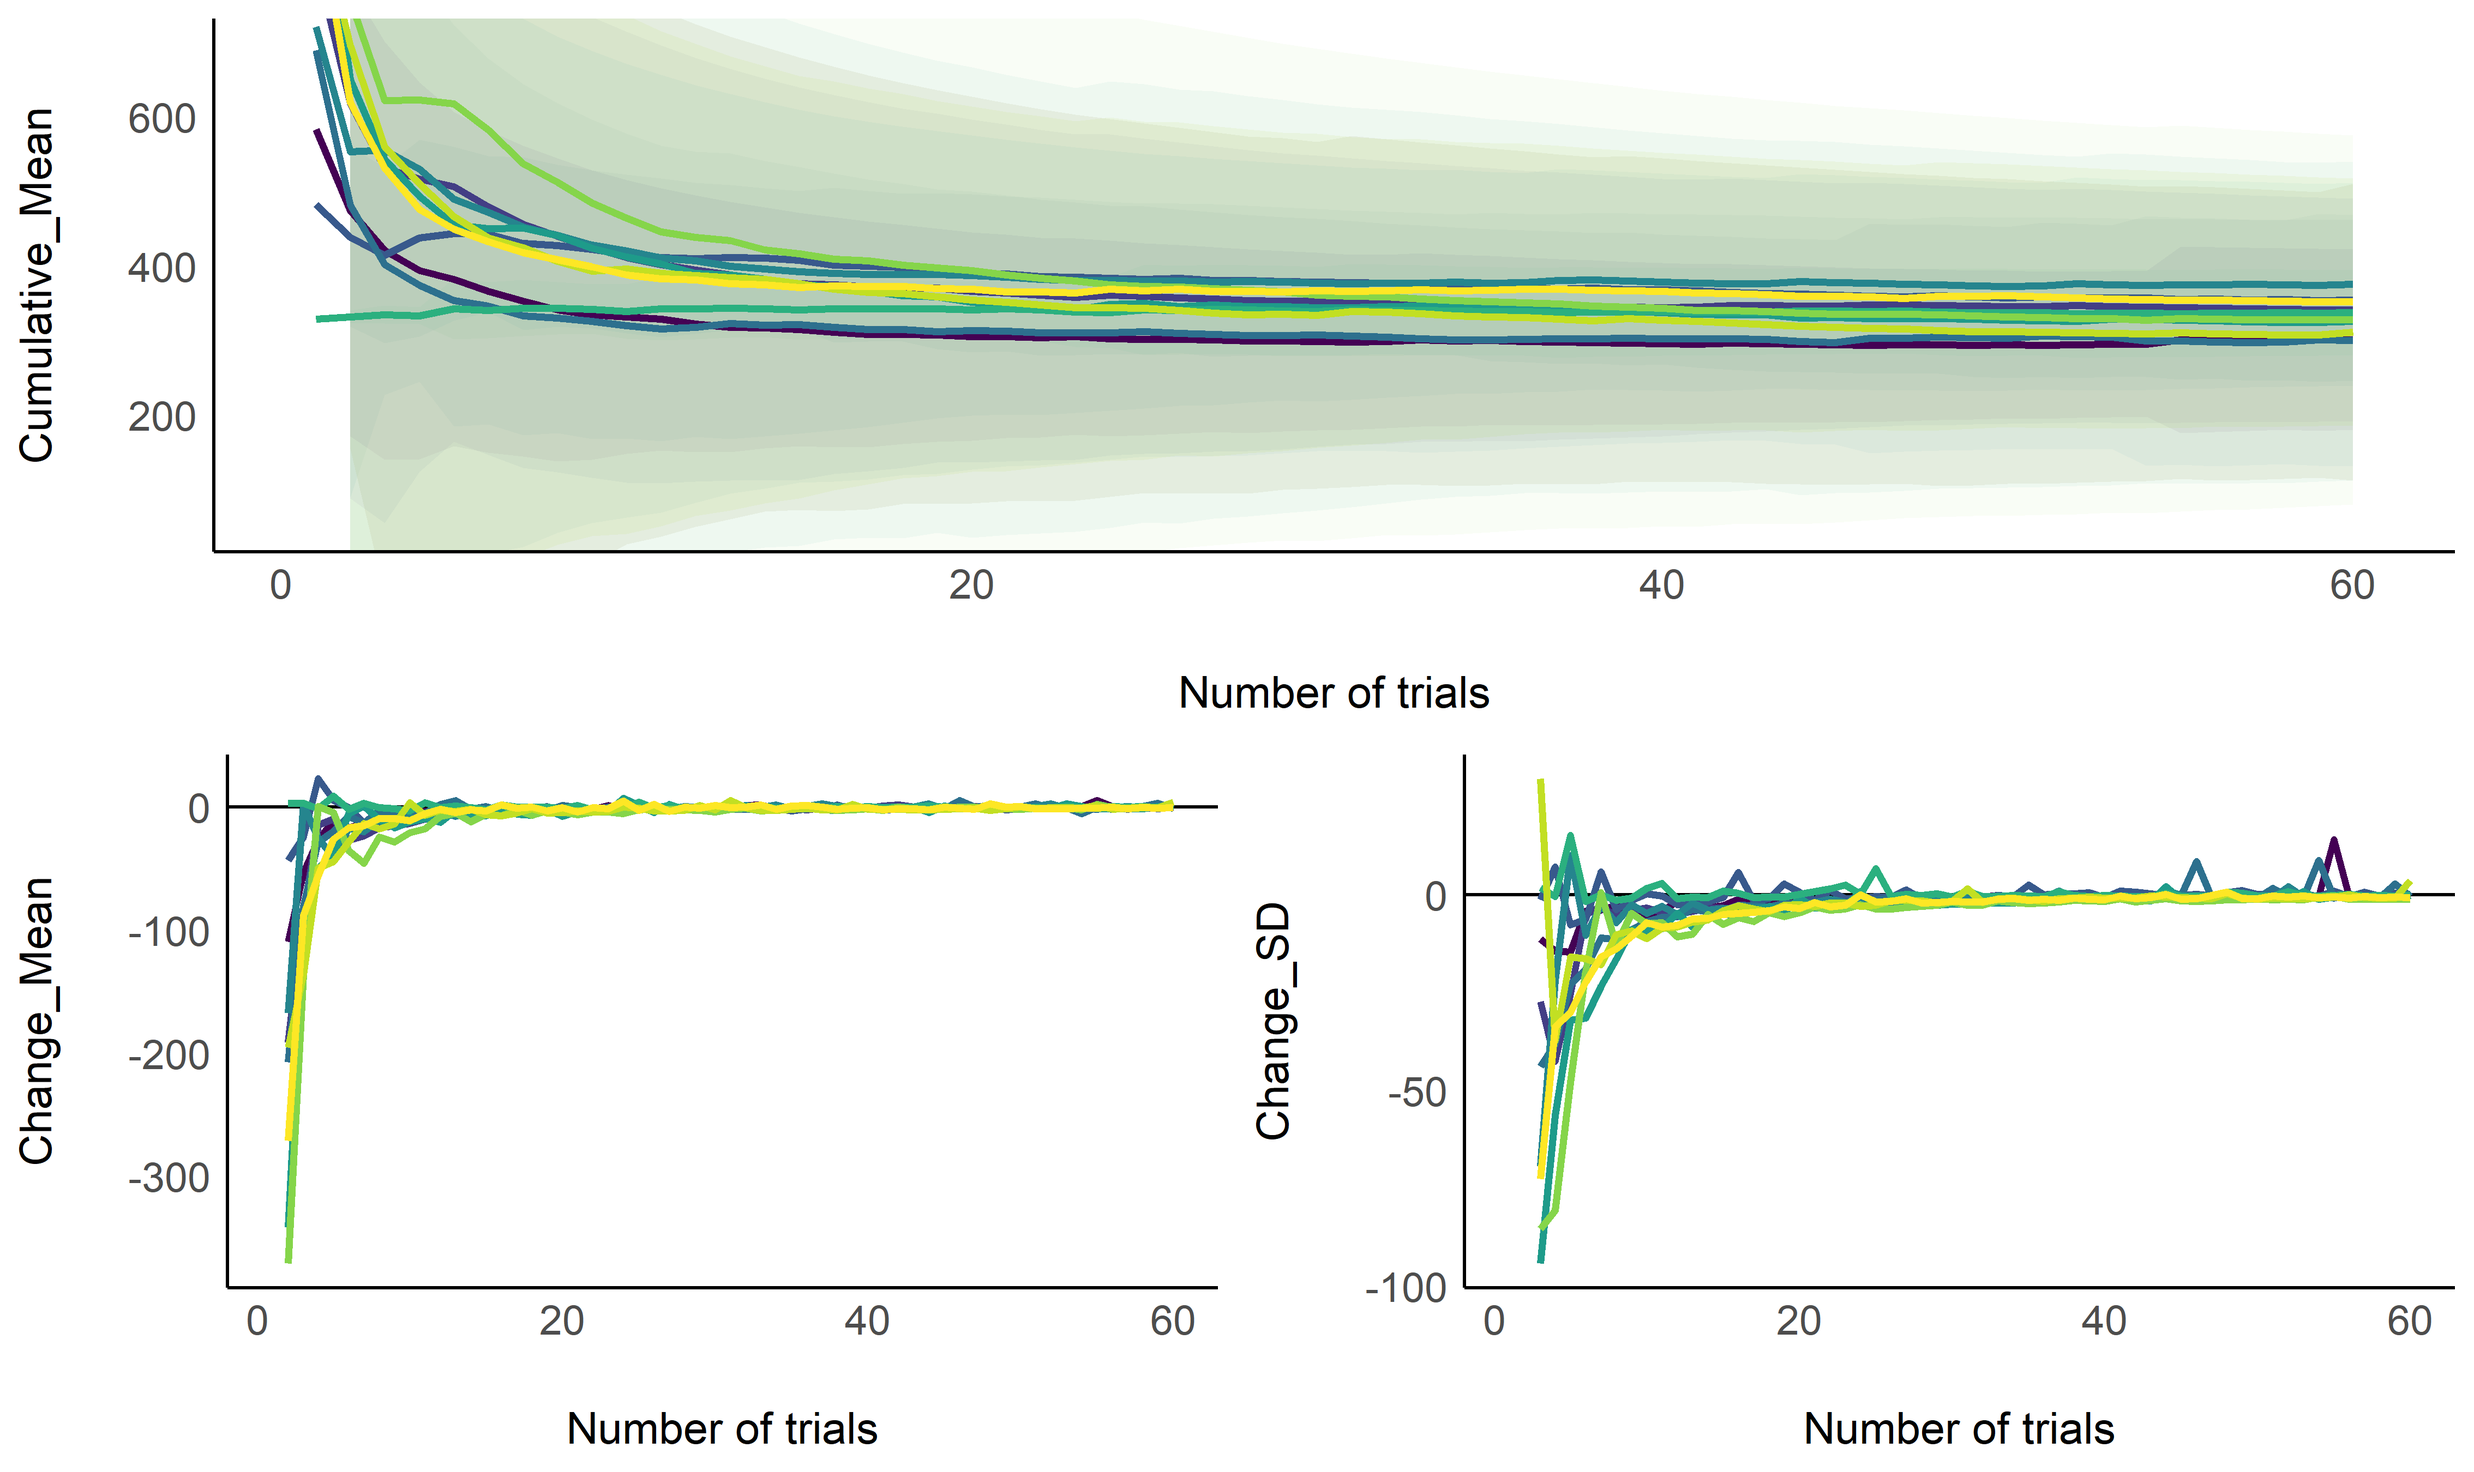
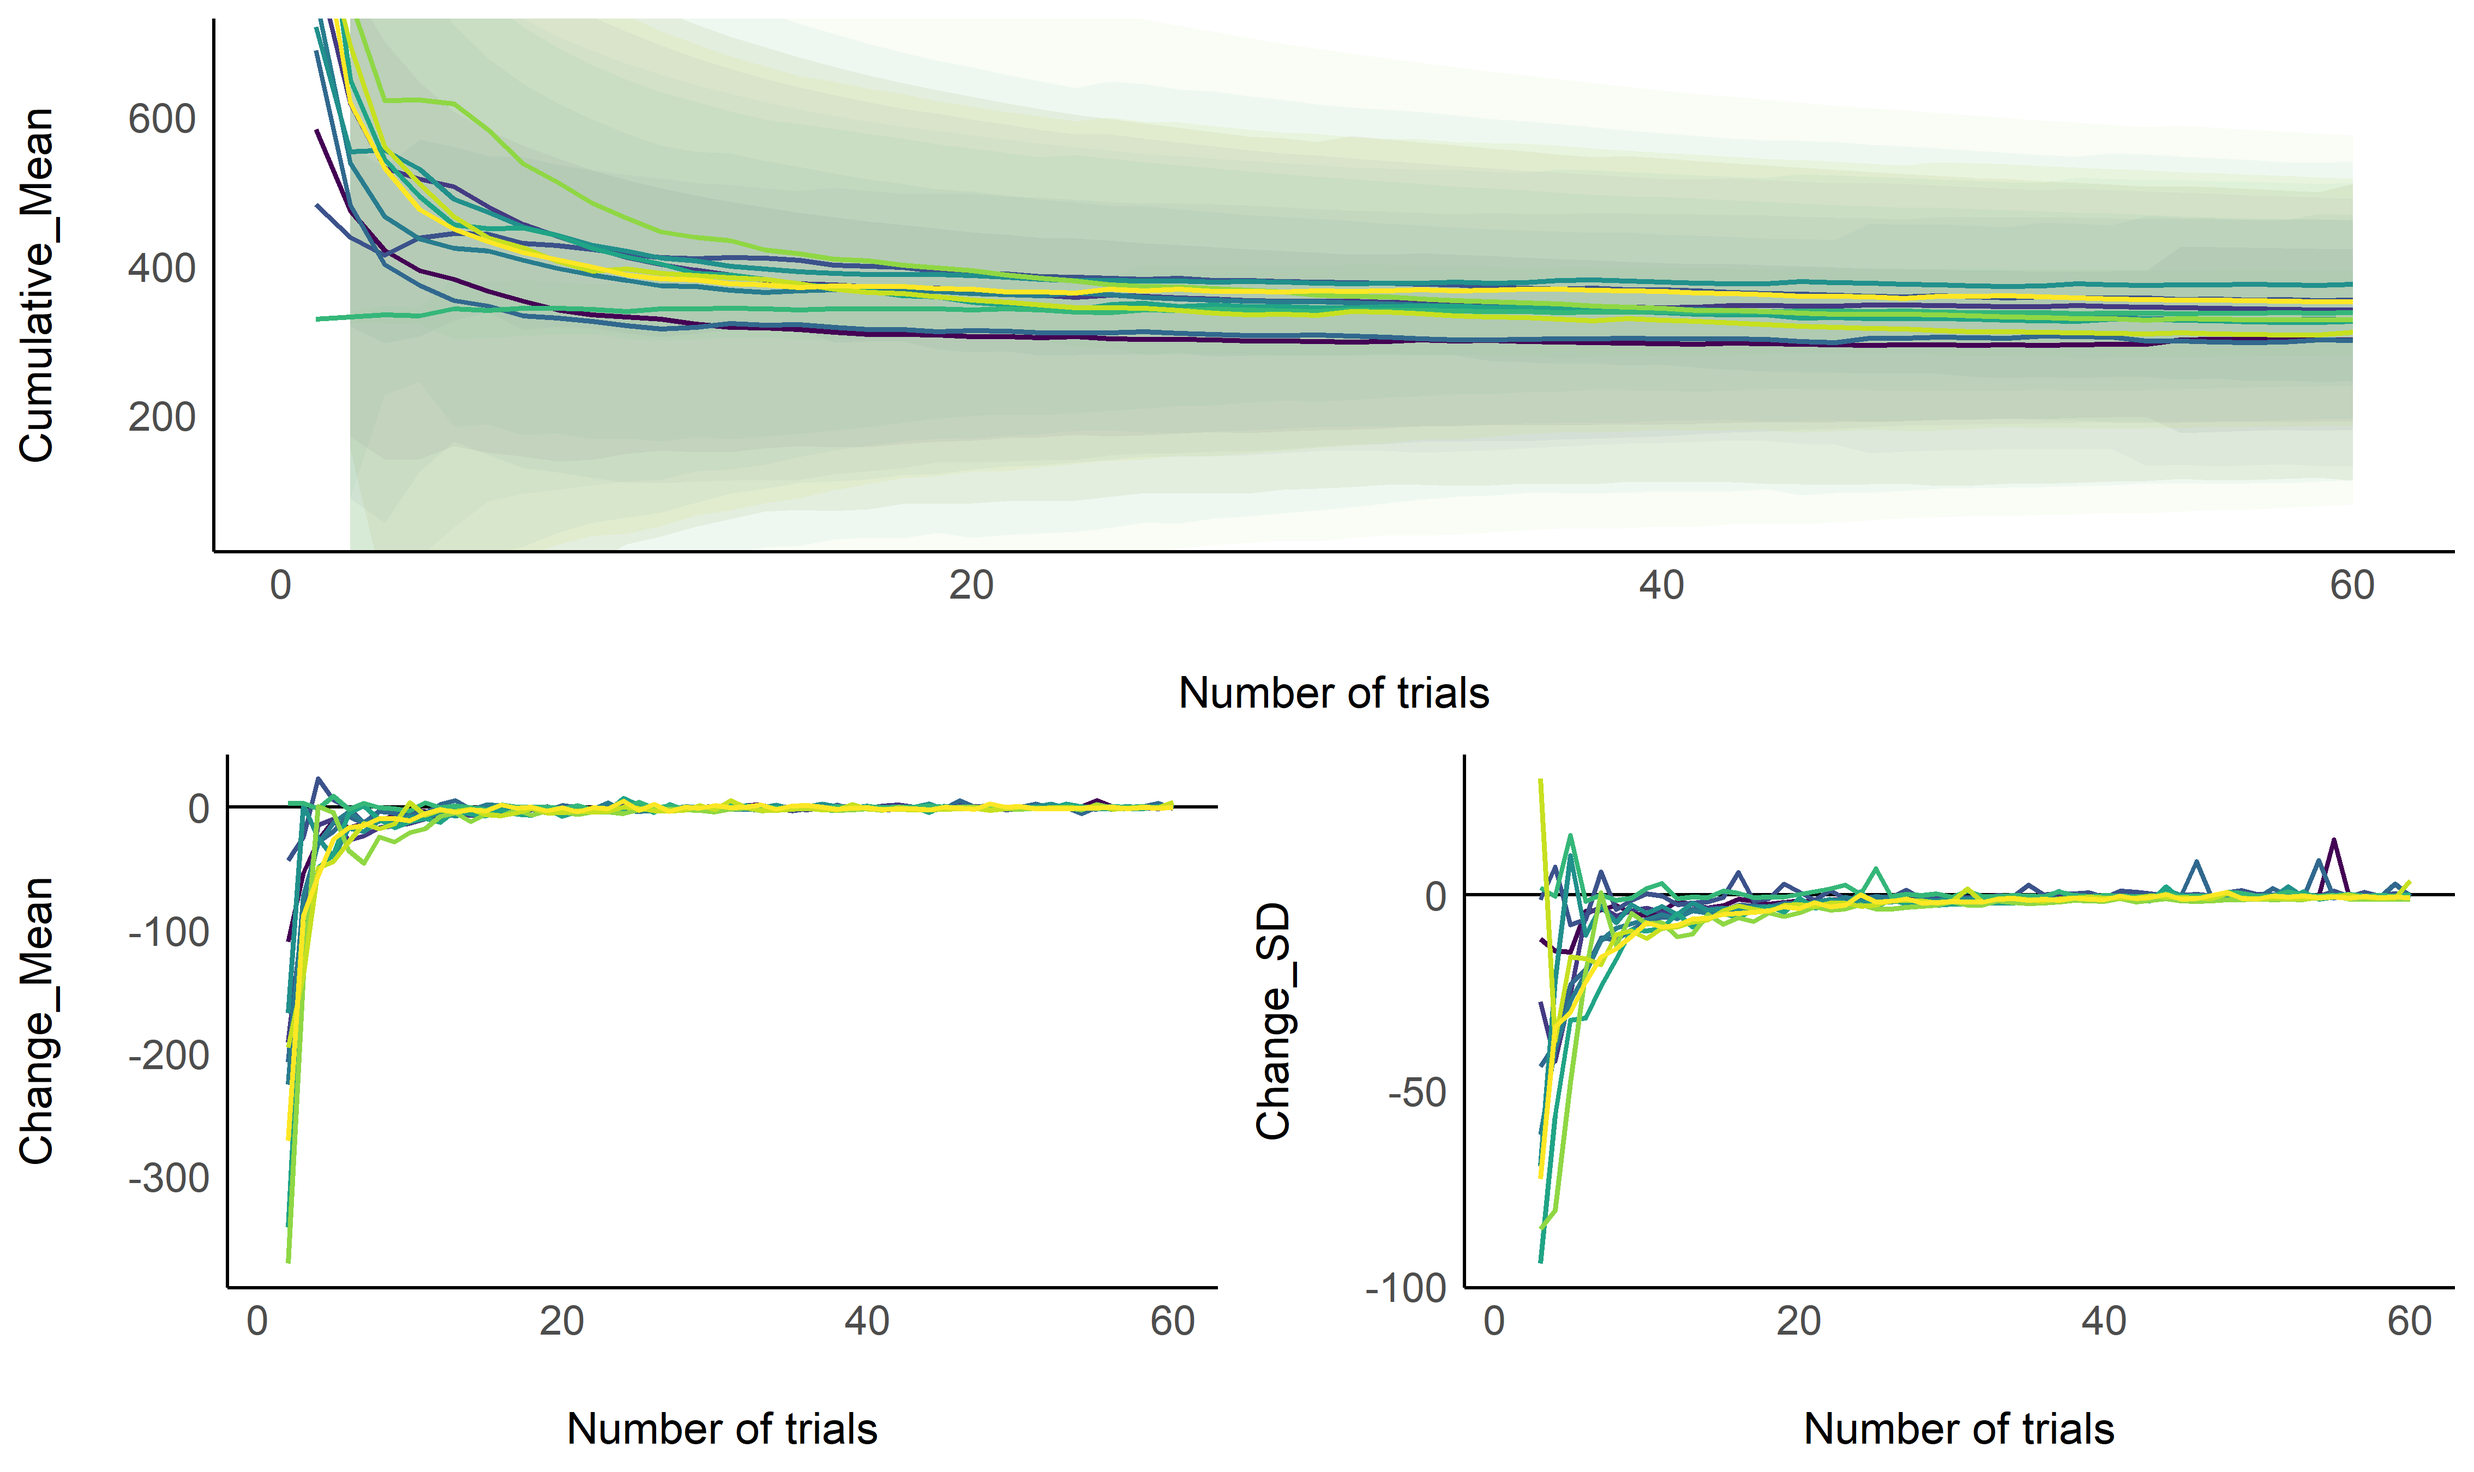
add instructions
@tam-pham I added instructions at the beginning (and a white screen at the end) of the game. Could you take a look for typos and all? thanks :relaxed:

Changed region(s): [[0.1243, 0.0, 0.9636, 0.2489], [0.6217, 0.5911, 0.9636, 0.7467], [0.1243, 0.5289, 0.4663, 0.5911]]

diff --git a/prototype_python/StarControl.py b/prototype_python/StarControl.py
@@ -36,7 +36,8 @@ if os.path.exists(path) is False:
     os.mkdir(path)
 
 
-
+# Instructions (can be activated to increase the pressure in the context of experiments with students)
+n.instructions("This is a game designed to measure how fast your are.\n\nIndeed, speed has been shown to a reliable index of intellectual ability and mental agility.\n\nThe task is repetitive and long on purpose, as the ability of maintaining speed until the end is also an indicator of cognitive altertness and aptitude.\n\nHence, throughout the game, we would like you to try responding as fast as possible.", end_text="Press ENTER to start.")
 
 # Part 1
 # -----------------------------------------------------------------------------
@@ -84,6 +85,5 @@ df_AttentionPriming = attention_priming(n_trials=20)
 save_data(df_AttentionPriming, start_time, participant, task = "Attention_Priming", path = path + participant + "_AttentionPriming")
 
 
-
-print("Duration: %0.2f min" %((datetime.datetime.now()-t0).total_seconds()/60))
+n.instructions("Thank you!", end_text="Press ENTER to quit.")
 n.close()

diff --git a/prototype_python/how_many_trials/README.md b/prototype_python/how_many_trials/README.md
@@ -16,10 +16,11 @@ participants).
 library(tidyverse)
 library(easystats)
 ## # Attaching packages
-## <U+2714> insight     0.7.0        <U+2714> bayestestR  0.4.0.1   
-## <U+2714> performance 0.4.0.1      <U+2714> parameters  0.2.5.1   
-## <U+2714> see         0.2.1.9000   <U+2714> correlation 0.1.0     
-## <U+2714> estimate    0.1.0        <U+2714> report      0.1.0
+## <U+2714> insight     0.7.1.1   <U+2714> bayestestR  0.4.9  
+## <U+2714> performance 0.4.0.1   <U+2714> parameters  0.3.0.1
+## <U+2714> see         0.3.0.1   <U+2714> effectsize  0.1.0  
+## <U+2714> correlation 0.1.0     <U+2714> estimate    0.1.0  
+## <U+2714> report      0.1.0
 library(cowplot)
 
 compute_cumulative <- function(data, fun = mean, col = "RT"){
@@ -110,7 +111,7 @@ fig1 <- cowplot::plot_grid(
     ggplot(aes(x = Trial_Order, y = Cumulative_Mean)) +
     # geom_vline(xintercept = 50, linetype = "dotted") +
     geom_ribbon(aes(ymin = Cumulative_CI_low, ymax = Cumulative_CI_high, fill = Participant), alpha = 0.05) +
-    geom_line(aes(color = Participant), size = 1) +
+    geom_line(aes(color = Participant), size = 0.7) +
     theme_modern() +
     scale_color_viridis_d(guide = FALSE) +
     scale_fill_viridis_d(guide = FALSE) +
@@ -120,7 +121,7 @@ fig1 <- cowplot::plot_grid(
     ggplot(aes(x = Trial_Order, y = Change_Mean)) +
     # geom_vline(xintercept = 50, linetype = "dotted") +
     geom_hline(yintercept = 0) +
-    geom_line(aes(color = Participant), size = 1) +
+    geom_line(aes(color = Participant), size = 0.7) +
     theme_modern() +
     scale_color_viridis_d(guide = FALSE) +
     xlab("Number of trials"),
@@ -128,7 +129,7 @@ fig1 <- cowplot::plot_grid(
     ggplot(aes(x = Trial_Order, y = Change_SD)) +
     # geom_vline(xintercept = 50, linetype = "dotted") +
     geom_hline(yintercept = 0) +
-    geom_line(aes(color = Participant), size = 1) +
+    geom_line(aes(color = Participant), size = 0.7) +
     theme_modern() +
     scale_color_viridis_d(guide = FALSE) +
     xlab("Number of trials")),
@@ -163,7 +164,7 @@ fig2 <- cowplot::plot_grid(
     ggplot(aes(x = Trial_Order, y = Cumulative_Mean)) +
     # geom_vline(xintercept = 60, linetype = "dotted") +
     geom_ribbon(aes(ymin = Cumulative_CI_low, ymax = Cumulative_CI_high, fill = Participant), alpha = 0.05) +
-    geom_line(aes(color = Participant), size = 1) +
+    geom_line(aes(color = Participant), size = 0.7) +
     theme_modern() +
     scale_color_viridis_d(guide = FALSE) +
     scale_fill_viridis_d(guide = FALSE) +
@@ -172,7 +173,7 @@ fig2 <- cowplot::plot_grid(
     ggplot(aes(x = Trial_Order, y = Change_Mean)) +
     # geom_vline(xintercept = 60, linetype = "dotted") +
     geom_hline(yintercept = 0) +
-    geom_line(aes(color = Participant), size = 1) +
+    geom_line(aes(color = Participant), size = 0.7) +
     theme_modern() +
     scale_color_viridis_d(guide = FALSE) +
     xlab("Number of trials"),
@@ -180,7 +181,7 @@ fig2 <- cowplot::plot_grid(
     ggplot(aes(x = Trial_Order, y = Change_SD)) +
     # geom_vline(xintercept = 60, linetype = "dotted") +
     geom_hline(yintercept = 0) +
-    geom_line(aes(color = Participant), size = 1) +
+    geom_line(aes(color = Participant), size = 0.7) +
     theme_modern() +
     scale_color_viridis_d(guide = FALSE) +
     xlab("Number of trials")),
@@ -216,7 +217,7 @@ fig3 <- cowplot::plot_grid(
     ggplot(aes(x = Trial_Order, y = Cumulative_Mean)) +
     # geom_vline(xintercept = 60, linetype = "dotted") +
     geom_ribbon(aes(ymin = Cumulative_CI_low, ymax = Cumulative_CI_high, fill = Participant), alpha = 0.05) +
-    geom_line(aes(color = Participant), size = 1) +
+    geom_line(aes(color = Participant), size = 0.7) +
     theme_modern() +
     scale_color_viridis_d(guide = FALSE) +
     scale_fill_viridis_d(guide = FALSE) +
@@ -225,7 +226,7 @@ fig3 <- cowplot::plot_grid(
     ggplot(aes(x = Trial_Order, y = Change_Mean)) +
     # geom_vline(xintercept = 60, linetype = "dotted") +
     geom_hline(yintercept = 0) +
-    geom_line(aes(color = Participant), size = 1) +
+    geom_line(aes(color = Participant), size = 0.7) +
     theme_modern() +
     scale_color_viridis_d(guide = FALSE) +
     xlab("Number of trials"),
@@ -233,7 +234,7 @@ fig3 <- cowplot::plot_grid(
     ggplot(aes(x = Trial_Order, y = Change_SD)) +
     # geom_vline(xintercept = 60, linetype = "dotted") +
     geom_hline(yintercept = 0) +
-    geom_line(aes(color = Participant), size = 1) +
+    geom_line(aes(color = Participant), size = 0.7) +
     theme_modern() +
     scale_color_viridis_d(guide = FALSE) +
     xlab("Number of trials")),
@@ -275,7 +276,7 @@ fig4 <- cowplot::plot_grid(
     ggplot(aes(x = Trial_Order, y = Cumulative_Mean)) +
     # geom_vline(xintercept = 120, linetype = "dotted") +
     geom_ribbon(aes(ymin = Cumulative_CI_low, ymax = Cumulative_CI_high, fill = Participant), alpha = 0.05) +
-    geom_line(aes(color = Participant), size = 1) +
+    geom_line(aes(color = Participant), size = 0.7) +
     theme_modern() +
     scale_color_viridis_d(guide = FALSE) +
     scale_fill_viridis_d(guide = FALSE) +
@@ -286,7 +287,7 @@ fig4 <- cowplot::plot_grid(
     ggplot(aes(x = Trial_Order, y = Change_Mean)) +
     # geom_vline(xintercept = 120, linetype = "dotted") +
     geom_hline(yintercept = 0) +
-    geom_line(aes(color = Participant), size = 1) +
+    geom_line(aes(color = Participant), size = 0.7) +
     theme_modern() +
     scale_color_viridis_d(guide = FALSE) +
     facet_grid(~Conflict, labeller = "label_both") +
@@ -296,7 +297,7 @@ fig4 <- cowplot::plot_grid(
     ggplot(aes(x = Trial_Order, y = Change_SD)) +
     # geom_vline(xintercept = 120, linetype = "dotted") +
     geom_hline(yintercept = 0) +
-    geom_line(aes(color = Participant), size = 1) +
+    geom_line(aes(color = Participant), size = 0.7) +
     theme_modern() +
     scale_color_viridis_d(guide = FALSE) +
     facet_grid(~Conflict, labeller = "label_both") +
@@ -336,7 +337,7 @@ fig4 <- cowplot::plot_grid(
 
 <!--     geom_vline(xintercept = 60, linetype = "dotted") + -->
 
-<!--     geom_line(aes(color = Participant), size = 1) + -->
+<!--     geom_line(aes(color = Participant), size = 0.7) + -->
 
 <!--     theme_modern() + -->
 
@@ -379,7 +380,7 @@ for(participant in list.files(path = "../data/pilot/")){
 fig5 <- df %>%
   ggplot(aes(x = Stop_Signal_RT, y = Predicted)) +
   geom_ribbon(aes(ymin = CI_low, ymax = CI_high, fill = Participant), alpha = 0.1) +
-  geom_line(aes(color = Participant), size = 1) +
+  geom_line(aes(color = Participant), size = 0.7) +
   theme_modern() +
   scale_color_viridis_d(guide = FALSE) +
   scale_fill_viridis_d(guide = FALSE)  +
@@ -439,7 +440,7 @@ fig6 <- cowplot::plot_grid(
     ggplot(aes(x = Trial_Order, y = Intercept)) +
     geom_hline(yintercept = 0) +
     # geom_ribbon(aes(ymin = Intercept_CI_low, ymax = Intercept_CI_high, fill = Participant), alpha = 0.1) +
-    geom_line(aes(color = Participant), size = 1) +
+    geom_line(aes(color = Participant), size = 0.7) +
     theme_modern() +
     scale_color_viridis_d(guide = FALSE) +
     scale_fill_viridis_d(guide = FALSE) +
@@ -449,7 +450,7 @@ fig6 <- cowplot::plot_grid(
     ggplot(aes(x = Trial_Order, y = Slope)) +
     geom_hline(yintercept = 0) +
     # geom_ribbon(aes(ymin = Intercept_CI_low, ymax = Slope_CI_high, fill = Participant), alpha = 0.1) +
-    geom_line(aes(color = Participant), size = 1) +
+    geom_line(aes(color = Participant), size = 0.7) +
     theme_modern() +
     scale_color_viridis_d(guide = FALSE) +
     scale_fill_viridis_d(guide = FALSE) +
@@ -490,7 +491,7 @@ for(participant in list.files(path = "../data/pilot/")){
 fig7 <- df %>%
     ggplot(aes(x = Trial_Order, y = Error_Probability)) +
     # geom_vline(xintercept = 120, linetype = "dotted") +
-    geom_line(aes(color = Participant), size = 1) +
+    geom_line(aes(color = Participant), size = 0.7) +
     theme_modern() +
     scale_color_viridis_d(guide = FALSE) +
     scale_fill_viridis_d(guide = FALSE) +
